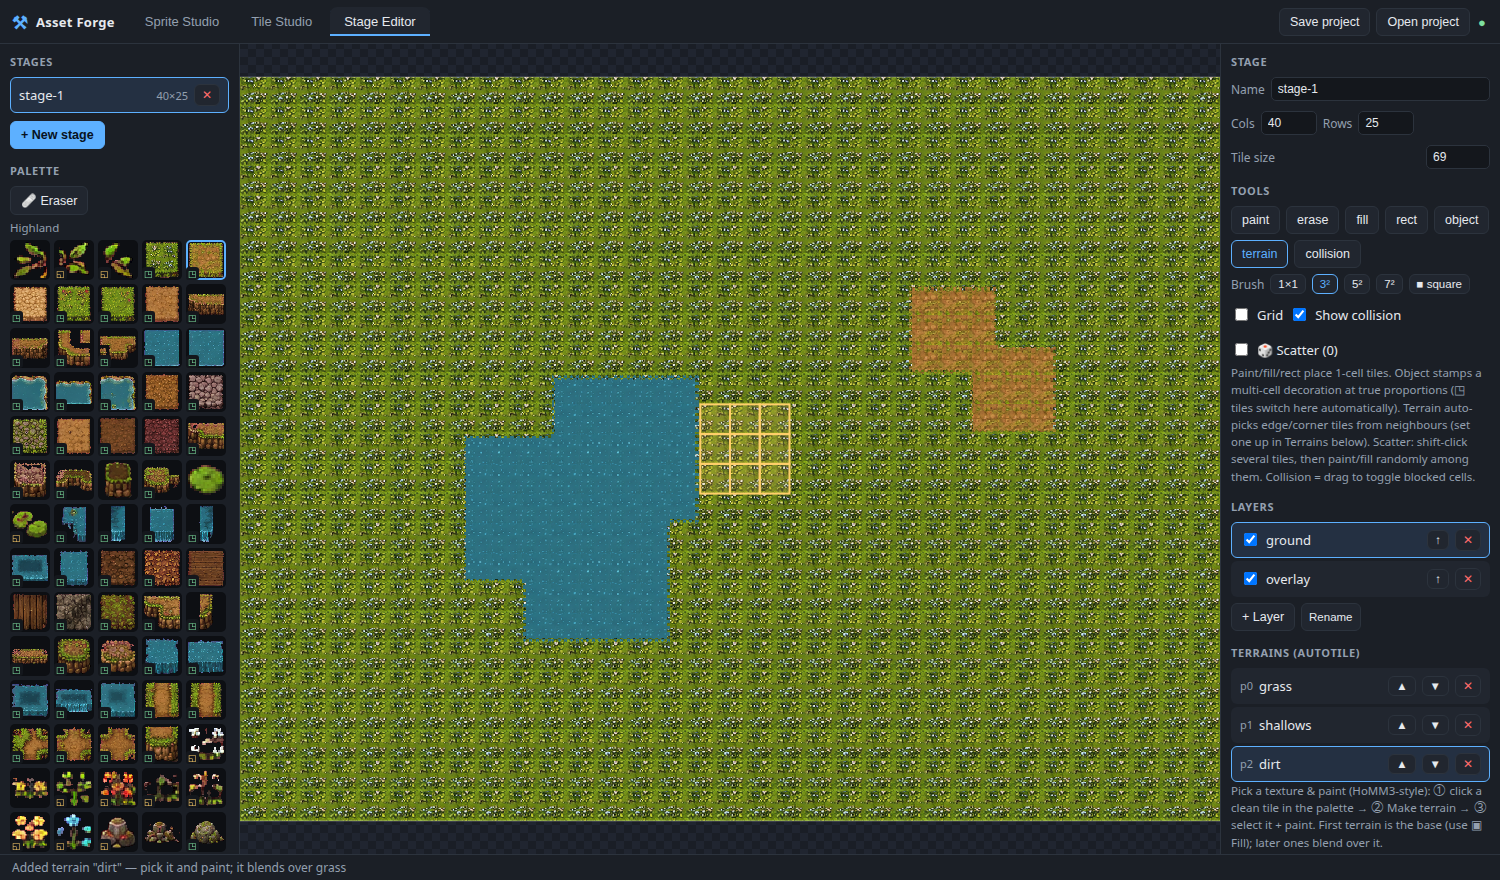
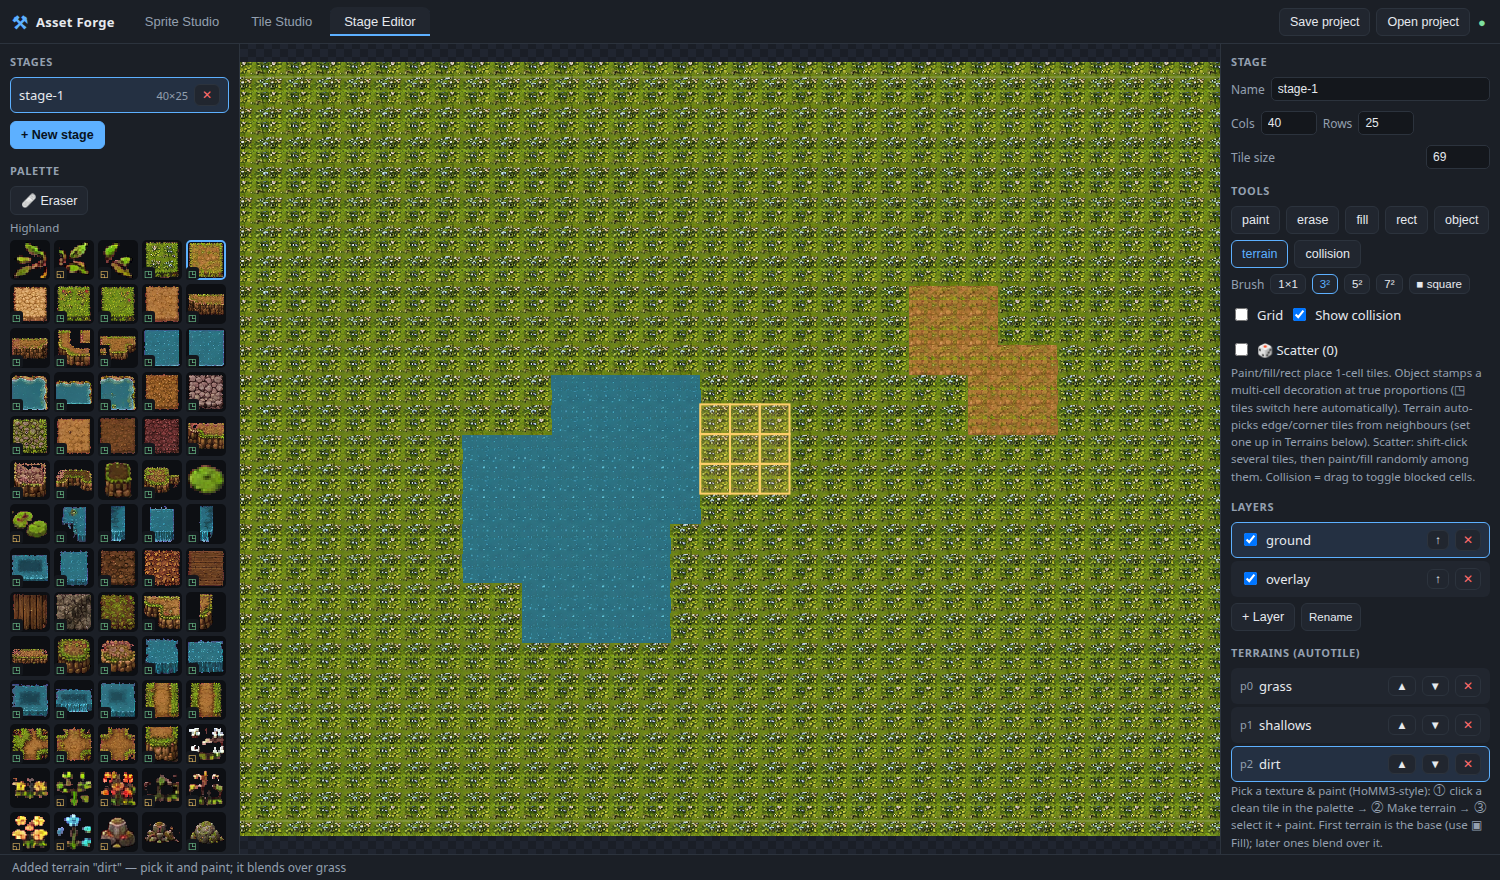
Terrain: corner-Wang (dual-grid) autotiling — seamless real-art blends
Adopt the Tiled/Godot standard: corner-based Wang terrains, dual-grid rendered.
A wang terrain = 16 tiles indexed by which corners are this terrain (TL/TR/BR/BL);
each display tile sits at a corner of 4 world cells and shows their blend, so
terrains join seamlessly with no repeating borders.

- wang.ts: drawWangLayer (dual-grid, priority-aware, OOB=empty), C_* bits.
- wang-gen.ts: generateWang16 — clean nearest-corner blends of a fill over a
  base (crisp corners, no dither), so existing biome fills make Wang sets now.
- Make terrain / Auto-create now produce kind "wang" (buildFillTerrain = solid
  base; buildSynthTerrain = corner-Wang via generateWang16). Painting a wang
  terrain sets membership only; drawScene + the export preview render it via
  drawWangLayer. Legacy edge16/blob47/path still render via their data path.
- "➕ Wang terrain from 16-tile set" imports a hand-authored 16-tile sheet
  (sliced 4×4, index order) for crisp real-art transitions.
- docs/autotile-template-spec.md: exact generation spec for the agent (16-tile
  corner-Wang, edge-Wang roads, cliff top+wall block).

Verified: synthetic dual-grid render correct; in-app pick-and-paint blends water/
dirt into grass with smooth corners, no borders. Smoke green. NOTE: stage JSON
export of wang membership is still TODO (preview PNG is correct); cliffs next.

diff --git a/src/stage/stage-editor.ts b/src/stage/stage-editor.ts
@@ -9,7 +9,8 @@ import { buildZip, textEntry, blobEntry } from "../core/zip";
 import { downloadBlob } from "../core/download";
 import { packTileset } from "../tile/tile-pack";
 import { resolveCell, EDGE16_SLOTS, maskGlyph } from "./autotile";
-import { generateTransitionSheet } from "./transition-gen";
+import { drawWangLayer } from "./wang";
+import { generateWang16 } from "./wang-gen";
 import { classifyTileBlob, tileCenter, isSeamlessFill, colorDist, colorName } from "./classify";
 import type { RGB } from "./classify";
 import { importSourceDataUrl } from "../core/image";
@@ -157,7 +158,13 @@ export function mountStageEditor(root: HTMLElement): Editor {
       const cells = brushCells(d, c.x, c.y);
       let changed = false;
       mutateSilent(() => { for (const p of cells) if (layer.terrain![p.y][p.x] !== L.activeTerrainId) { layer.terrain![p.y][p.x] = L.activeTerrainId; changed = true; } });
-      if (changed) { resolveSet(d, layer, cells); vp.render(); }
+      if (changed) {
+        // Wang terrains render straight from membership (dual-grid) — no data
+        // writes. Legacy kinds resolve into the tile layer.
+        const at = getProject().terrains.find((t) => t.id === L.activeTerrainId);
+        if (at && at.kind !== "wang") resolveSet(d, layer, cells);
+        vp.render();
+      }
       return;
     }
     if (L.tool === "fill") {
@@ -340,8 +347,11 @@ export function mountStageEditor(root: HTMLElement): Editor {
     g.fillStyle = "#0e1116";
     g.fillRect(0, 0, W, H);
 
+    const terrainsById = new Map(getProject().terrains.map((t) => [t.id, t]));
+    const rank = terrainRank();
     for (const layer of d.layers) {
       if (!layer.visible) continue;
+      // 1) manually-placed / legacy resolved tiles
       for (let y = 0; y < d.rows; y++) {
         for (let x = 0; x < d.cols; x++) {
           const ref = layer.data[y][x];
@@ -350,6 +360,10 @@ export function mountStageEditor(root: HTMLElement): Editor {
           if (img) g.drawImage(img, 0, 0, img.width, img.height, x * ts, y * ts, ts, ts);
           else { g.fillStyle = "#444"; g.fillRect(x * ts, y * ts, ts, ts); }
         }
+      }
+      // 2) corner-Wang terrains, dual-grid rendered from membership
+      if (layer.terrain) {
+        drawWangLayer(g, layer.terrain, terrainsById, rank, (r) => L.tileImg.get(r), ts, d.cols, d.rows);
       }
     }
 
@@ -549,7 +563,10 @@ export function mountStageEditor(root: HTMLElement): Editor {
         button("➕ Make terrain from selected tile", () => makeTerrainFromSelected(), L.activeRef ? "primary" : "")),
       el("div.btn-row", { style: { marginTop: "6px" } },
         button("✨ Auto-create (guess all)", () => autoCreateTerrains()),
-        button("+ Road", () => newTerrain("path"))));
+        button("+ Road", () => newTerrain("path"))),
+      el("div.btn-row", { style: { marginTop: "6px" } },
+        button("➕ Wang terrain from 16-tile set", () => importWangFromTileset())),
+      el("div.hint", {}, "Wang terrains blend seamlessly via corner tiles (no repeating borders). Load a hand-authored 16-tile Wang sheet (slice it 4×4), then ‘Wang terrain from 16-tile set’ — see docs/autotile-template-spec.md."));
 
     // Synthesized transitions: blend one fill terrain into another (for sheets
     // with no dedicated edge/corner art). Generates a 16-tile transition set.
@@ -681,7 +698,8 @@ export function mountStageEditor(root: HTMLElement): Editor {
     return cropCanvas(img, x, y, img.width - 2 * x, img.height - 2 * y);
   }
 
-  /** A plain seamless-fill terrain from a single (cropped) fill image. */
+  /** A plain seamless-fill WANG terrain from a single (cropped) fill image —
+   * all 16 corner roles point at the one fill tile, so it paints solid. The base. */
   async function buildFillTerrain(
     fillImg: HTMLCanvasElement, size: number, name: string
   ): Promise<{ source: import("../core/types").SourceImage; tileset: TilesetDoc; terrain: Terrain }> {
@@ -696,21 +714,22 @@ export function mountStageEditor(root: HTMLElement): Editor {
       tileSize: size, grid: { offsetX: 0, offsetY: 0, cols: 1, rows: 1, cellW: size, cellH: size, spacing: 0, inset: 0 }, tiles: [tile]
     };
     const ref = `${tsId}/${tile.id}`;
-    return { source, tileset, terrain: { id: uid("terr"), name, tilesetId: tsId, kind: "edge16", roles: { 0: ref, 15: ref } } };
+    const roles: Record<number, string> = {};
+    for (let i = 0; i < 16; i++) roles[i] = ref;
+    return { source, tileset, terrain: { id: uid("terr"), name, tilesetId: tsId, kind: "wang", roles } };
   }
 
-  /** Generate a synthesized edge16 terrain: `fillImg` dither-blended over
-   * `baseImg`, packed as a 16-tile sheet → source + tileset + terrain. Returns
-   * the docs (caller mutates). */
+  /** Build a corner-WANG terrain: `fillImg` blended over `baseImg` as a 16-tile
+   * corner set (clean rounded transitions, no dither), dual-grid rendered. */
   async function buildSynthTerrain(
-    fillImg: HTMLCanvasElement, baseImg: HTMLCanvasElement, size: number, name: string, band: number
+    fillImg: HTMLCanvasElement, baseImg: HTMLCanvasElement, size: number, name: string, _band: number
   ): Promise<{ source: import("../core/types").SourceImage; tileset: TilesetDoc; terrain: Terrain }> {
-    const sheet = generateTransitionSheet(fillImg, baseImg, size, band);
+    const sheet = generateWang16(fillImg, baseImg, size);
     const dataUrl = await blobToDataUrl(await canvasToBlob(sheet));
     const source = await importSourceDataUrl(uid("src"), name, dataUrl);
     const tsId = uid("ts");
     const tiles: TileDef[] = Array.from({ length: 16 }, (_, i) => ({
-      id: uid("t"), char: "", name: `m${i}`, x: i * size, y: 0, w: size, h: size, blocked: false, sightBlocked: false, tags: []
+      id: uid("t"), char: "", name: `w${i}`, x: i * size, y: 0, w: size, h: size, blocked: false, sightBlocked: false, tags: []
     }));
     const tileset: TilesetDoc = {
       id: tsId, name, sourceId: source.id,
@@ -721,7 +740,25 @@ export function mountStageEditor(root: HTMLElement): Editor {
     };
     const roles: Record<number, string> = {};
     tiles.forEach((t, mask) => (roles[mask] = `${tsId}/${t.id}`));
-    return { source, tileset, terrain: { id: uid("terr"), name, tilesetId: tsId, kind: "edge16", roles } };
+    return { source, tileset, terrain: { id: uid("terr"), name, tilesetId: tsId, kind: "wang", roles } };
+  }
+
+  /** Import a hand-authored 16-tile Wang set (the active tileset, sliced 4×4 or
+   * 16×1 in index order) directly as a corner-Wang terrain — crisp real art. */
+  function importWangFromTileset(): void {
+    const d = doc();
+    const tsId = (L.activeRef && L.activeRef.split("/")[0]) || getProject().tilesets[0]?.id;
+    const ts = getProject().tilesets.find((t) => t.id === tsId);
+    if (!ts || ts.tiles.length < 16) { setStatus("Need a sliced 16-tile Wang set (slice the sheet 4×4 first)"); return; }
+    const roles: Record<number, string> = {};
+    for (let i = 0; i < 16; i++) roles[i] = `${tsId}/${ts.tiles[i].id}`;
+    const terrain: Terrain = { id: uid("terr"), name: ts.name, tilesetId: tsId, kind: "wang", roles };
+    mutate((p) => p.terrains.push(terrain));
+    if (d) { d.tileSize = ts.tileSize; vp.fit(d.cols * d.tileSize, d.rows * d.tileSize); }
+    L.activeTerrainId = terrain.id;
+    L.tool = "terrain";
+    setStatus(`Wang terrain "${ts.name}" from 16-tile set — pick it and paint`);
+    refreshCanvasInspector();
   }
 
   /** Build an edge16 terrain from a sheet that already has edge/corner tiles, by
@@ -1113,6 +1150,8 @@ export function mountStageEditor(root: HTMLElement): Editor {
     const g = ctx2d(c);
     g.fillStyle = "#0e1116";
     g.fillRect(0, 0, c.width, c.height);
+    const terrainsById = new Map(getProject().terrains.map((t) => [t.id, t]));
+    const rank = terrainRank();
     for (const layer of d.layers) {
       if (!layer.visible) continue;
       for (let y = 0; y < d.rows; y++)
@@ -1121,6 +1160,7 @@ export function mountStageEditor(root: HTMLElement): Editor {
           const img = ref && L.tileImg.get(ref);
           if (img) g.drawImage(img, 0, 0, img.width, img.height, x * ts, y * ts, ts, ts);
         }
+      if (layer.terrain) drawWangLayer(g, layer.terrain, terrainsById, rank, (r) => L.tileImg.get(r), ts, d.cols, d.rows);
     }
     // Objects on top, y-sorted (matches the editor's depth order).
     for (const o of [...d.objects].sort((a, b) => a.y + a.h - (b.y + b.h))) {

diff --git a/src/stage/wang.ts b/src/stage/wang.ts
@@ -1,0 +1,54 @@
+// Corner-based Wang autotiling, dual-grid rendering (the Tiled/Godot standard).
+//
+// A "wang" terrain is 16 tiles indexed by which of its 4 CORNERS are this
+// terrain (TL=1, TR=2, BR=4, BL=8); idx 0 = none (base), idx 15 = solid fill.
+// We render on a grid offset by half a tile: each display tile sits at a corner
+// of 4 world cells, and shows the blend of the terrains in those 4 cells. This
+// gives seamless transitions with inner+outer corners and NO repeating borders.
+
+import type { Terrain } from "../core/types";
+
+export const C_TL = 1, C_TR = 2, C_BR = 4, C_BL = 8;
+
+export type TerrainGrid = (string | null)[][];
+export type RankFn = (id: string | null) => number;
+export type ImgFor = (ref: string) => HTMLCanvasElement | undefined;
+
+/** Draw the dual-grid wang terrain for one membership layer into `g` (world
+ * coordinates). Lower-priority terrains are owned/drawn where they're the
+ * highest at a corner; out-of-bounds counts as empty. */
+export function drawWangLayer(
+  g: CanvasRenderingContext2D,
+  membership: TerrainGrid,
+  terrainsById: Map<string, Terrain>,
+  rank: RankFn,
+  imgFor: ImgFor,
+  ts: number,
+  cols: number,
+  rows: number
+): void {
+  const cell = (x: number, y: number): string | null => (x < 0 || y < 0 || x >= cols || y >= rows ? null : membership[y]?.[x] ?? null);
+  // Display tiles at world corners (i,j), i∈0..cols, j∈0..rows. Each covers the
+  // ts×ts area centred on that corner.
+  for (let j = 0; j <= rows; j++) {
+    for (let i = 0; i <= cols; i++) {
+      const tl = cell(i - 1, j - 1), tr = cell(i, j - 1), bl = cell(i - 1, j), br = cell(i, j);
+      const rTL = rank(tl), rTR = rank(tr), rBL = rank(bl), rBR = rank(br);
+      const owner = Math.max(rTL, rTR, rBL, rBR);
+      if (owner === -Infinity) continue; // nothing here
+      // Which corners belong to the owner terrain.
+      let bits = 0;
+      if (rTL === owner) bits |= C_TL;
+      if (rTR === owner) bits |= C_TR;
+      if (rBR === owner) bits |= C_BR;
+      if (rBL === owner) bits |= C_BL;
+      const ownerId = rTL === owner ? tl : rTR === owner ? tr : rBR === owner ? br : bl;
+      const terrain = ownerId ? terrainsById.get(ownerId) : null;
+      if (!terrain || terrain.kind !== "wang") continue; // legacy kinds render via tile data
+      const ref = terrain.roles[bits] ?? terrain.roles[15] ?? Object.values(terrain.roles)[0];
+      const img = ref ? imgFor(ref) : undefined;
+      if (!img) continue;
+      g.drawImage(img, 0, 0, img.width, img.height, Math.round((i - 0.5) * ts), Math.round((j - 0.5) * ts), ts, ts);
+    }
+  }
+}

diff --git a/src/stage/wang-gen.ts b/src/stage/wang-gen.ts
@@ -1,0 +1,52 @@
+// Generate a 16-tile corner-Wang set: surface X blended over base B, one tile
+// per corner mask (TL=1,TR=2,BR=4,BL=8). Each pixel takes X or B based on which
+// corner it's nearest to — a clean, crisp corner transition (no dither). idx 0
+// = pure base, idx 15 = pure X. Used to make Wang terrains from a sheet's plain
+// fill tiles when hand-authored Wang art isn't available.
+
+import { newCanvas, ctx2d } from "../core/image";
+
+const C_TL = 1, C_TR = 2, C_BR = 4, C_BL = 8;
+
+function scaled(src: HTMLCanvasElement, size: number): ImageData {
+  const c = newCanvas(size, size);
+  const g = ctx2d(c);
+  g.drawImage(src, 0, 0, src.width, src.height, 0, 0, size, size);
+  return g.getImageData(0, 0, size, size);
+}
+
+export function generateWang16(fillImg: HTMLCanvasElement, baseImg: HTMLCanvasElement, size: number): HTMLCanvasElement {
+  const fill = scaled(fillImg, size);
+  const base = scaled(baseImg, size);
+  const sheet = newCanvas(size * 16, size);
+  const g = ctx2d(sheet);
+  const corners = [
+    { bit: C_TL, x: 0, y: 0 },
+    { bit: C_TR, x: size - 1, y: 0 },
+    { bit: C_BR, x: size - 1, y: size - 1 },
+    { bit: C_BL, x: 0, y: size - 1 }
+  ];
+  for (let idx = 0; idx < 16; idx++) {
+    const out = g.createImageData(size, size);
+    for (let y = 0; y < size; y++) {
+      for (let x = 0; x < size; x++) {
+        // Nearest corner decides X vs base; feather the tie boundary slightly.
+        let best = corners[0], bestD = Infinity, second = Infinity;
+        for (const c of corners) {
+          const d = (x - c.x) ** 2 + (y - c.y) ** 2;
+          if (d < bestD) { second = bestD; bestD = d; best = c; }
+          else if (d < second) second = d;
+        }
+        const useFill = (idx & best.bit) !== 0;
+        const src = useFill ? fill : base;
+        const i = (y * size + x) * 4;
+        out.data[i] = src.data[i];
+        out.data[i + 1] = src.data[i + 1];
+        out.data[i + 2] = src.data[i + 2];
+        out.data[i + 3] = 255;
+      }
+    }
+    g.putImageData(out, idx * size, 0);
+  }
+  return sheet;
+}

diff --git a/src/core/types.ts b/src/core/types.ts
@@ -125,12 +125,14 @@ export interface TilesetDoc {
  * kind "blob47": 8-neighbour mask reduced to 47 cases (adds inner corners).
  * kind "path": a linear road/river — same 4-bit mask, but connects only to the
  *   same path id (no priority) and ends at the map edge; rendered as an overlay.
+ * kind "wang": corner-based Wang (the primary terrain model) — 16 tiles indexed
+ *   by which CORNERS are this terrain (TL=1,TR=2,BR=4,BL=8); dual-grid rendered.
  */
 export interface Terrain {
   id: string;
   name: string;
   tilesetId: string;
-  kind: "edge16" | "blob47" | "path";
+  kind: "edge16" | "blob47" | "path" | "wang";
   /** maskValue -> tile ref. */
   roles: Record<number, string>;
 }

diff --git a/docs/autotile-template-spec.md b/docs/autotile-template-spec.md
@@ -1,0 +1,107 @@
+# Autotile template spec (for the image-gen agent)
+
+Asset Forge uses **corner-based Wang autotiling** (the Tiled/Godot standard) for
+seamless terrain blending — no dithering, no repeating borders. To make a sheet
+that drops in and auto-maps exactly, generate it to these templates.
+
+General rules (all templates): **magenta `#FF00FF` background**, one fixed
+**tile size** per sheet (recommend **64×64**), tiles laid out on an exact grid
+with no gaps unless stated. PNG, RGB.
+
+---
+
+## 1. Terrain: 16-tile corner-Wang set ("X over base B")
+
+Each terrain is authored as a surface **X** transitioning over a common **base
+B** (e.g. *water over grass*, *dirt over grass*; grass itself is the base). Every
+terrain in a world should transition over the **same base** so they compose.
+
+A set is **16 tiles** in a **4×4 grid**, where each tile shows the 4 corners
+filled with either **X** or **B**. Corner bit values:
+
+```
+TL = 1   TR = 2   BR = 4   BL = 8        tile index = sum of corners that are X
+```
+
+Lay tiles out **row-major by index**, index = `row*4 + col` (0..15):
+
+```
+ idx 0  : all base B              idx 8  : BL only is X
+ idx 1  : TL is X                 idx 9  : TL+BL  (left edge X)
+ idx 2  : TR is X                 idx 10 : TR+BL  (diagonal)
+ idx 3  : TL+TR (top edge X)      idx 11 : TL+TR+BL
+ idx 4  : BR is X                 idx 12 : BR+BL (bottom edge X)
+ idx 5  : TL+BR (diagonal)        idx 13 : TL+BR+BL
+ idx 6  : TR+BR (right edge X)    idx 14 : TR+BR+BL
+ idx 7  : TL+TR+BR                idx 15 : all four X  (solid X fill)
+```
+
+- **idx 15 must be a clean, seamless X fill** (tileable, no border/vignette).
+- **idx 0 must be a clean, seamless B fill.**
+- The other 14 show X occupying those corner quadrants, blending into B in the
+  rest — the X↔B transition art (rounded or organic edges welcome).
+- Tiles are **opaque** (B is baked in). Keep the transition consistent so any
+  two tiles meet seamlessly at shared edges.
+
+Filename hint: `<x>-over-<base>.wang16.png` (e.g. `water-over-grass.wang16.png`).
+One set per terrain pair. A biome = the base fill + a few of these sets.
+
+---
+
+## 2. Road / river: 16-tile edge-Wang set
+
+Linear features match on **sides**, not corners. 16 tiles in a 4×4 grid, index =
+4-bit **edge** mask of which sides the road continues toward:
+
+```
+N = 1   E = 2   S = 4   W = 8        tile index = sum of connected sides
+```
+
+```
+ 0 : isolated dot         5 : N+S vertical
+ 1/2/4/8 : single stubs   10: E+W horizontal
+ 3 : N+E ┐ corner         7/11/13/14 : T-junctions
+ 6 : E+S ┌ ...            15: 4-way cross
+ 9 : N+W ┘   12: S+W └
+```
+
+Road tiles have a **transparent (magenta) surround** (they overlay the ground),
+the road path centred so segments connect across tile edges.
+
+---
+
+## 3. Cliffs: top set + wall block (RPG-Maker-A4 style)
+
+A cliff = a raised **plateau top** + a **wall face** dropping to the lower
+ground. Provide two parts on one sheet:
+
+**A. Plateau top** — a 16-tile corner-Wang set (§1) of the top surface over the
+lower ground (so the plateau edge blends/has a lip).
+
+**B. Wall block** — the vertical face shown beneath the plateau's **south** edge:
+- a **top-of-wall** row (where the plateau meets the face),
+- a **repeating mid-wall** tile (1 wide, tiles vertically for tall cliffs),
+- **left** and **right** wall **corner** columns (non-repeating end caps),
+- optional **inner-corner** pieces where the wall turns.
+
+Layout (each cell = tile size), label the block clearly:
+
+```
+[wall TL][wall top ][wall TR]
+[wall L ][wall mid ][wall R ]
+[wall BL][wall base][wall BR]
+```
+
+Asset Forge paints the plateau (top set); the wall face is auto-drawn on the
+cells directly below the plateau's south edge, using top-of-wall → mid (repeated
+for height) → base, with L/R corners at the ends.
+
+---
+
+## Acceptance test
+- [ ] Magenta bg, exact grid, fixed tile size.
+- [ ] Terrain: 16 tiles, idx 0 = seamless base, idx 15 = seamless X fill, others
+      = corner-quadrant transitions; opaque.
+- [ ] All terrains in a biome share the **same base**.
+- [ ] Roads/rivers: 16 edge tiles, transparent surround.
+- [ ] Cliffs: top corner-set + wall block (top/mid/base + L/R corners).
